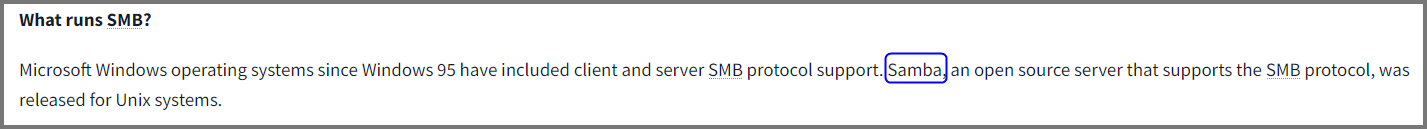
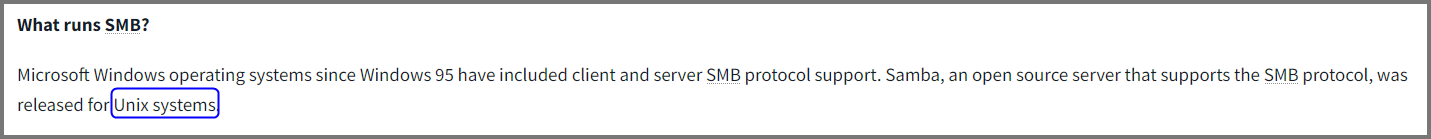
fix: Updated NS Article

diff --git a/blog-vault/articles/2024-01-02-building-home-lab-part-2.md b/blog-vault/articles/2024-01-02-building-home-lab-part-2.md
@@ -22,8 +22,9 @@ Hacker Image by [catalyststuff](https://www.freepik.com/free-vector/hacker-opera
 
 > [!IMPORTANT] Changelog
 > - **Nov. 01, 2024**
-> 	- Updated the article to indicate pfSense download from the official website now requires an account
-> 	- Updated the pfSense download link to point to pfSense official mirror from where the ISO can be downloaded without an account
+> 	- Updated the article to indicate pfSense download from the official website now requires an account.
+> 	- Updated the pfSense download link to point to pfSense official mirror from where the ISO can be downloaded without an account.
+> 	- Updated Virtual Box instructions to reference the “Expert” mode option.
 
 In this module, we will go over the installation of pfSense. Additionally, we will also complete the initial configuration required to onboard the subnets that make up our lab into pfSense.  
 
@@ -37,7 +38,7 @@ As of writing the latest version of pfSense is **`2.7.2`**
 Download the `amd64` version `ISO` of the latest version available  
 
 > [!INFO] pfSense Download
-> Downloads from the pfSense official website now require registration. The download from the website has also been changed to use Netgate which is not the same as CE edition. Make sure to use the link provided above to download the ISO redirect from their mirror.
+> Downloads from the pfSense official website now require registration. The download from the website has also been changed to use Netgate which is not the same as CE edition. Make sure to use the link provided above to download the ISO directly from their mirror.
 > 
 > [Is Netgate requiring a login to download CE now? : r/PFSENSE](https://www.reddit.com/r/PFSENSE/comments/1chzp1n/is_netgate_requiring_a_login_to_download_ce_now/)  
 > [PFSense ISO Download Requires an Account and Billing Address : r/PFSENSE](https://www.reddit.com/r/PFSENSE/comments/1co8f1o/pfsense_iso_download_requires_an_account_and/)

diff --git a/blog-vault/articles/2024-05-14-tryhackme-network-services.md b/blog-vault/articles/2024-05-14-tryhackme-network-services.md
@@ -19,6 +19,10 @@ media_subpath: /assets/
 
 Cover Image by [BiZkettE1](https://www.freepik.com/free-vector/modern-business-background-with-geometric-shapes_5287944.htm) on Freepik
 
+> [!IMPORTANT] Changelog
+> - **Nov. 05, 2024**
+> 	- Fixed incorrect answer in Task 2 - Question 4.
+
 [TryHackMe - Network Services](https://tryhackme.com/r/room/networkservices)
 
 In this room, we will learn about SMB, Telnet and FTP. We will also explore how we can enumerate these services and exploit them in CTFs.
@@ -48,7 +52,7 @@ In this room, we will learn about SMB, Telnet and FTP. We will also explore how 
 
 **4. What systems does Samba run on?**
 
-> Samba
+> Unix
 
 ### Task 3: Enumerating SMB
 
